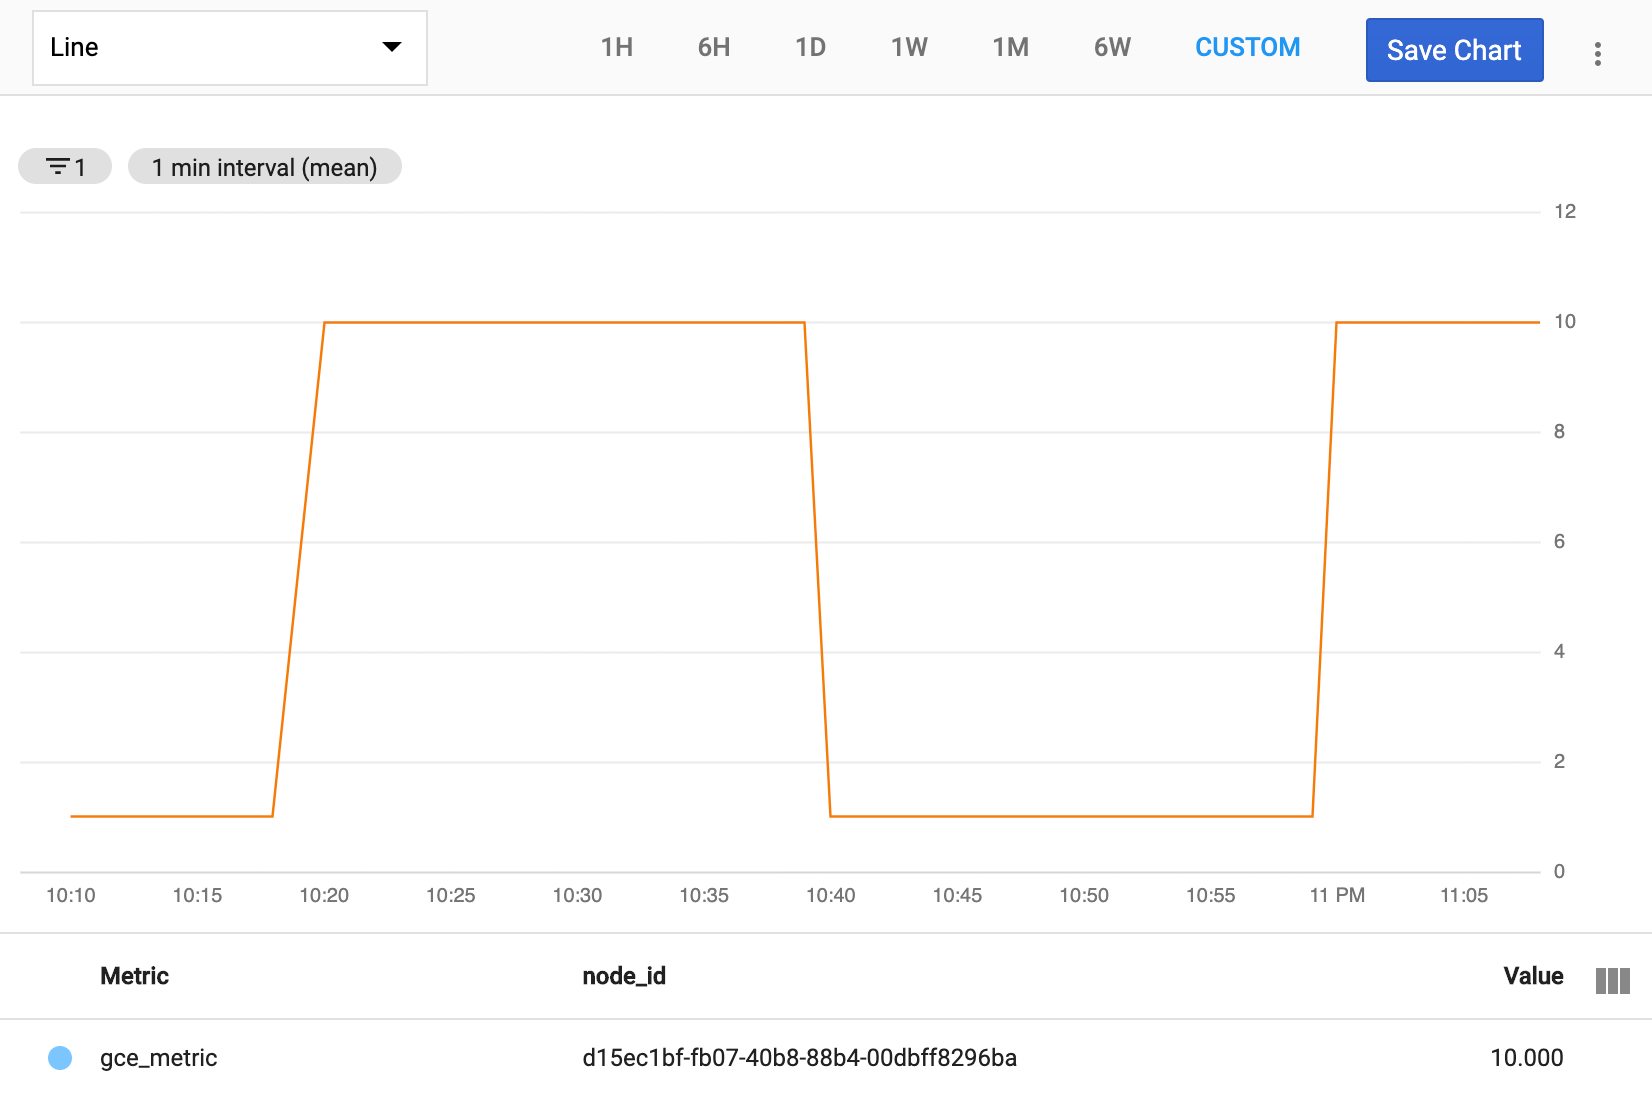
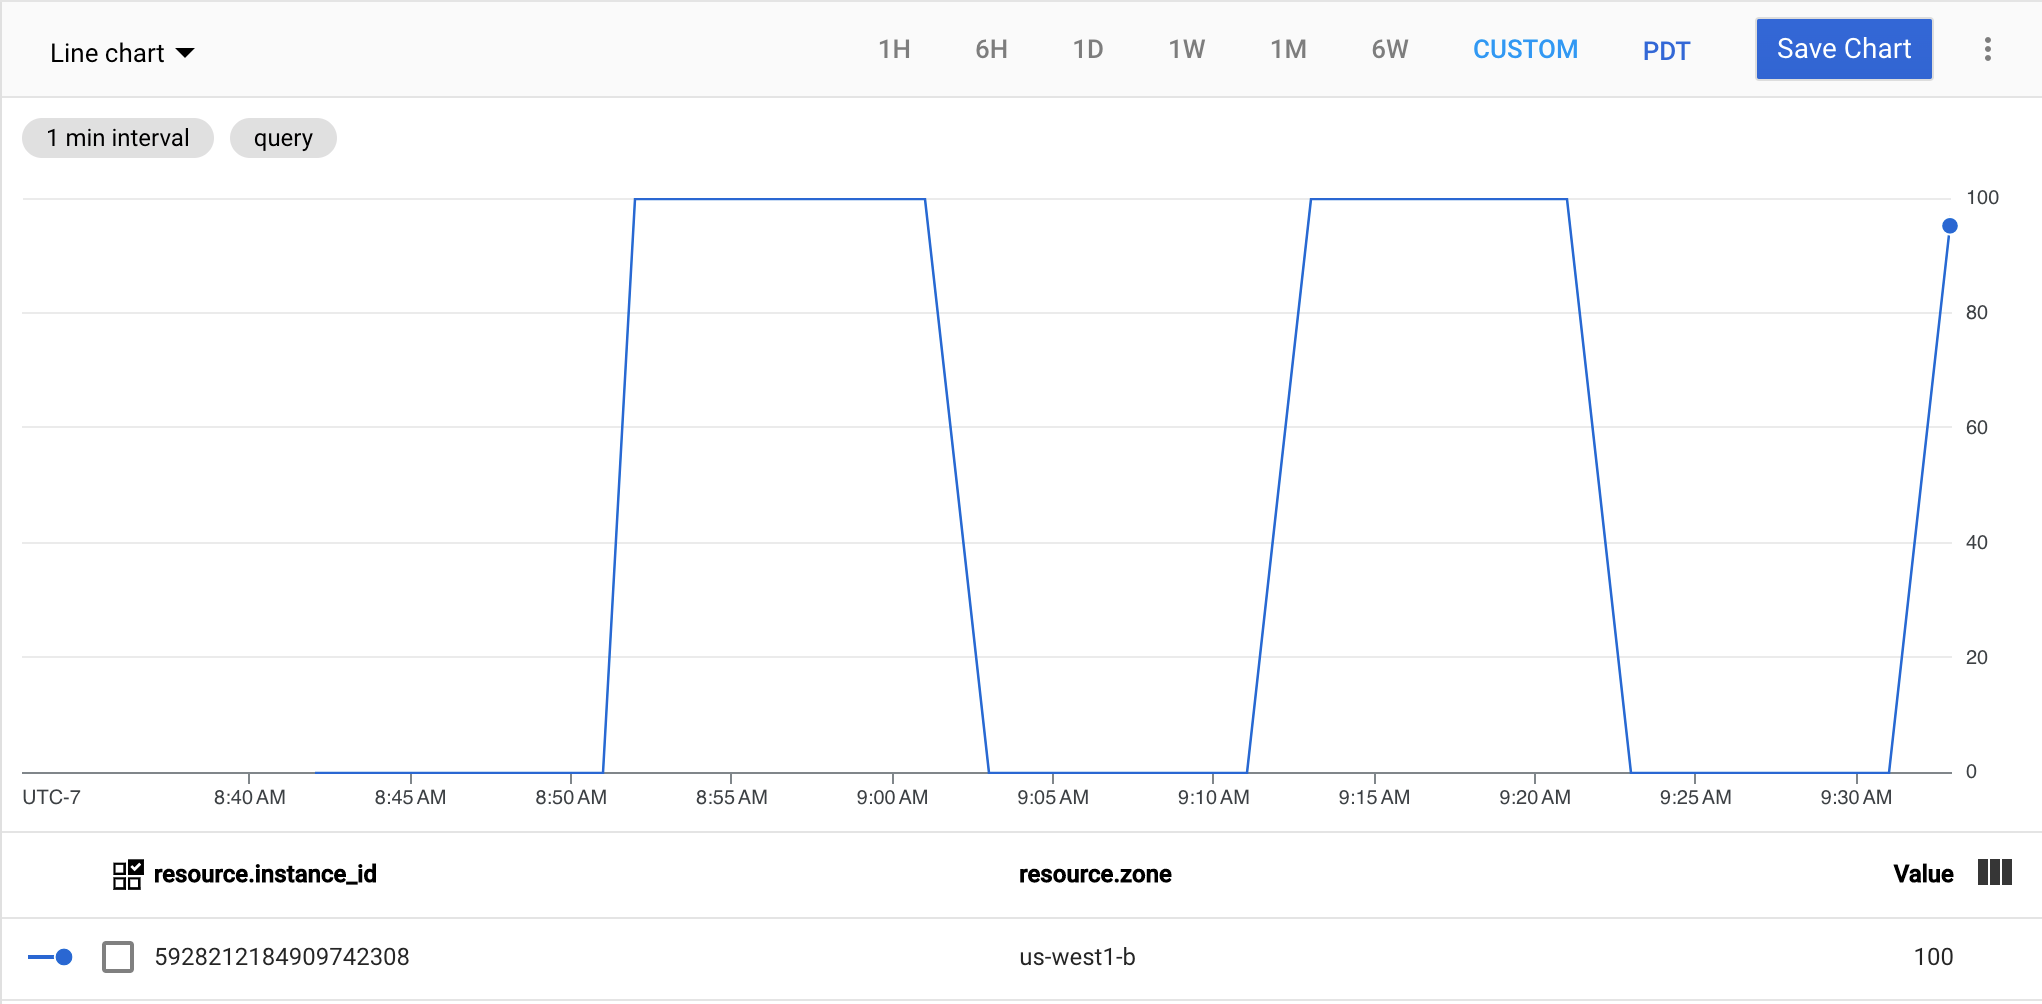
docs: Update example images
Regenerate the example images to reflect any Google Cloud Monitoring UI
changes, etc.

diff --git a/README.md b/README.md
@@ -8,10 +8,9 @@
 
 A synthetic metric generator for Google Cloud that will create a time-series of
 artificial metrics that can be consumed by an autoscaler, or other metric-bound
-resource. By default, the application will automatically try to generate a time-series
-with labels that match those automatically generated for [gce_instance] or
-[gke_container] metrics if an appropriate Google Cloud environment is detected.with fallback to
-[generic_node] metrics.
+resource. The application will automatically generate a time-series
+with labels appropriate for [gce_instance] or [gke_container] metrics, if detected,
+with fallback to [generic_node] metrics.
 
 ## Usage
 
@@ -21,7 +20,7 @@ The application has three-forms of operation; *generator*, *list*, and *delete*.
 
 <!-- spell-checker: disable -->
 ```shell
-gce-metric waveform [FLAGS] NAME
+gce-metric waveform [flags] NAME
 ```
 <!-- spell-checker: enable -->
 
@@ -63,18 +62,7 @@ authenticated to GCP and authorised to create metric time-series.
   series, respectively.
 -->
 
-#### Example
-
-To generate synthetic metrics called `custom.googleapis.com/custom_metric` that
-start at 0 and rise to 10 in a sawtooth pattern each hour
-
-<!-- spell-checker: disable -->
-```shell
-gce-metric sawtooth --floor 0 --ceiling 10 --period 1h custom.googleapis.com/custom_metric
-```
-<!-- spell-checker: enable -->
-
-#### Sawtooth in Metrics Explorer
+#### Example: Sawtooth
 
 ![Sawtooth metric in Metrics Explorer](images/sawtooth.png)
 
@@ -84,7 +72,7 @@ gce-metric sawtooth --floor 0 --ceiling 100 --period 20m --sample 30s custom.goo
 ```
 <!-- spell-checker: enable -->
 
-#### Sine in Metrics Explorer
+#### Example: Sine
 
 ![Sine metric in Metrics Explorer](images/sine.png)
 
@@ -94,7 +82,7 @@ gce-metric sine --floor 0 --ceiling 100 --period 20m --sample 30s custom.googlea
 ```
 <!-- spell-checker: enable -->
 
-#### Square in Metrics Explorer
+#### Example: Square
 
 ![Square metric in Metrics Explorer](images/square.png)
 
@@ -104,7 +92,7 @@ gce-metric square --floor 0 --ceiling 100 --period 20m --sample 30s custom.googl
 ```
 <!-- spell-checker: enable -->
 
-#### Triangle in Metrics Explorer
+#### Example: Triangle
 
 ![Triangle metric in Metrics Explorer](images/triangle.png)
 
